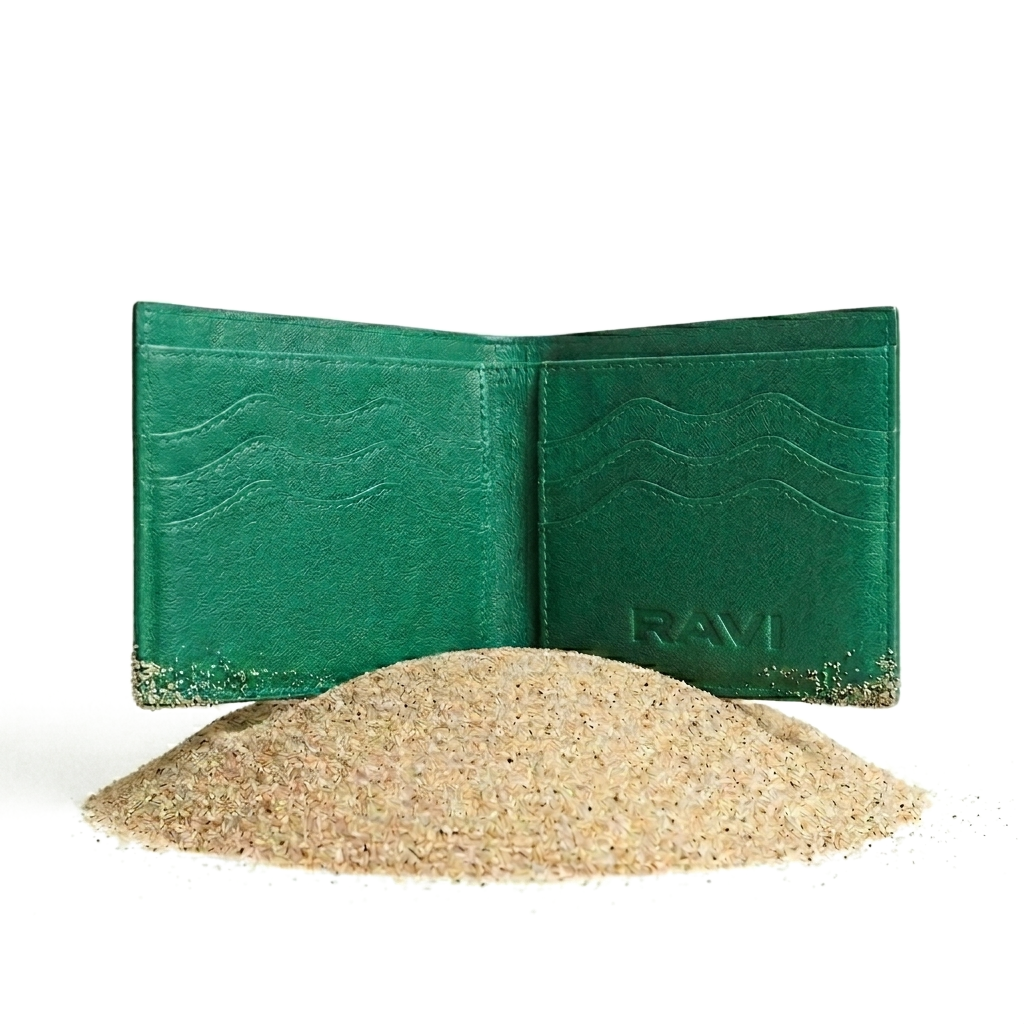
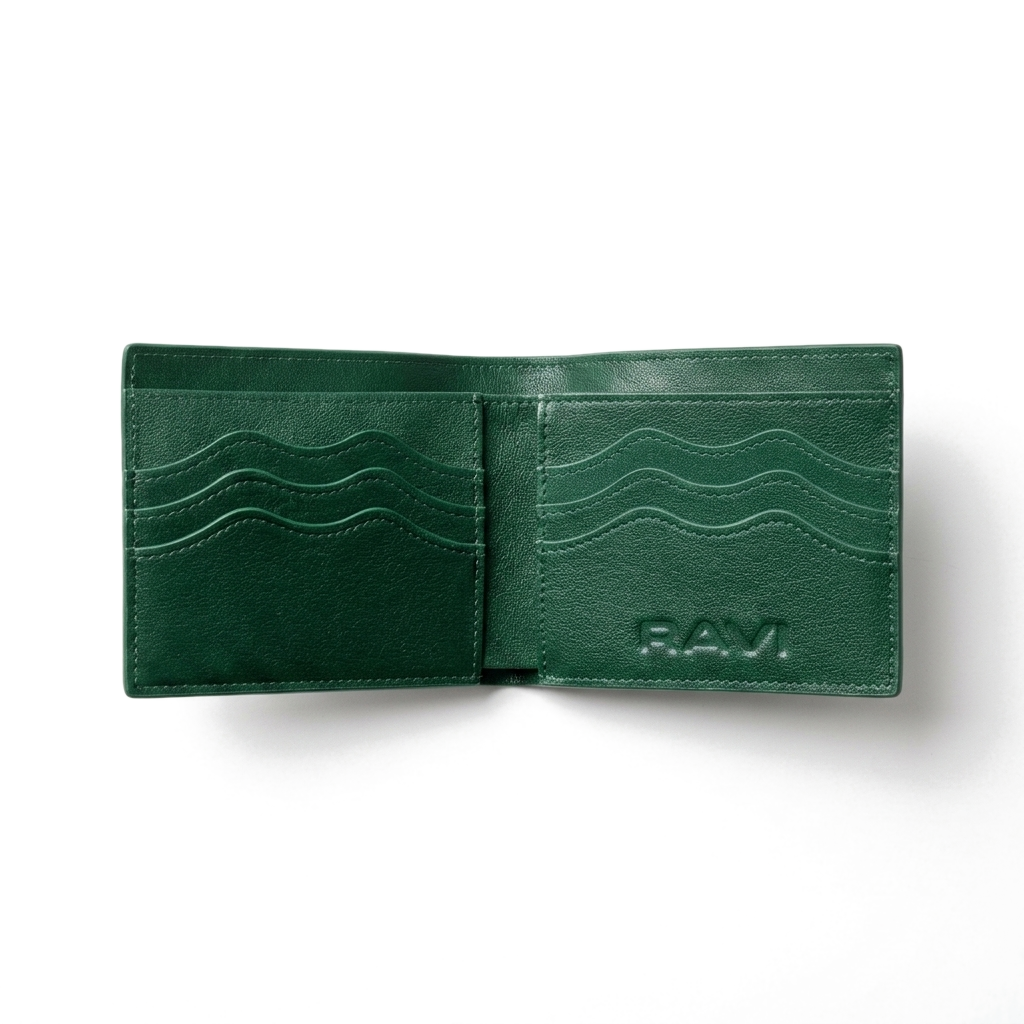
Update wallet images (Wallet_WhiteBG) and add 'Click to open' hover hint

diff --git a/index.html b/index.html
@@ -39,6 +39,14 @@ html,body{height:100%;background:var(--paper);color:var(--ink);font-family:'Helv
 .wallet-hover{position:absolute;inset:0;width:100%;height:100%;object-fit:contain;visibility:hidden;z-index:2;pointer-events:none}
 .wallet-wrap.flipped .wallet-base{visibility:hidden}
 .wallet-wrap.flipped .wallet-hover{visibility:visible}
+.wallet-hint{position:absolute;left:50%;bottom:8%;transform:translateX(-50%);z-index:3;pointer-events:none;
+  font-size:10.5px;letter-spacing:.22em;text-transform:uppercase;font-weight:500;
+  color:var(--paper);background:rgba(0,0,0,.78);padding:9px 16px;border-radius:999px;
+  white-space:nowrap;opacity:0;transition:opacity .25s ease, transform .35s cubic-bezier(.2,.8,.2,1);
+}
+.wallet-wrap:hover .wallet-hint{opacity:1;transform:translateX(-50%) translateY(-4px)}
+.wallet-wrap.flipped .wallet-hint{display:none}
+@media (hover:none){.wallet-hint{display:none}}
 
 /* product column */
 .product{display:flex;flex-direction:column;align-items:flex-start;gap:clamp(14px,2vh,22px);max-width:440px;text-align:left;width:100%}
@@ -110,9 +118,10 @@ html,body{height:100%;background:var(--paper);color:var(--ink);font-family:'Helv
   <section class="hero">
 
     <div class="stage">
-      <div class="wallet-wrap" id="wallet-wrap" role="button" tabindex="0" aria-label="Click to flip wallet">
-        <img class="wallet wallet-base" src="wallet-sand.png" alt="RAVISAUCE Shell bifold wallet — emerald, top grain leather, resting on sand">
+      <div class="wallet-wrap" id="wallet-wrap" role="button" tabindex="0" aria-label="Click to open wallet">
+        <img class="wallet wallet-base" src="wallet-sand.png" alt="RAVISAUCE Shell bifold wallet — emerald, top grain leather, embossed scallop pattern">
         <img class="wallet wallet-hover" src="wallet-open.png" alt="" aria-hidden="true">
+        <span class="wallet-hint" aria-hidden="true">Click to open</span>
       </div>
     </div>
 
